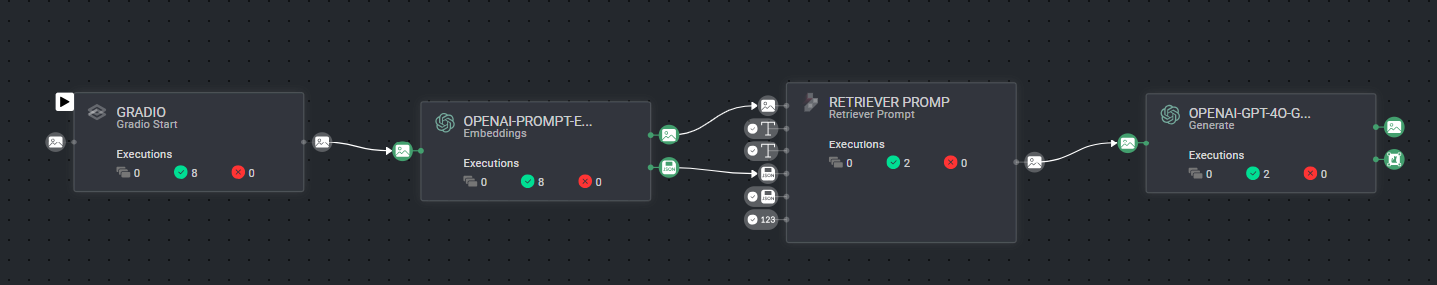
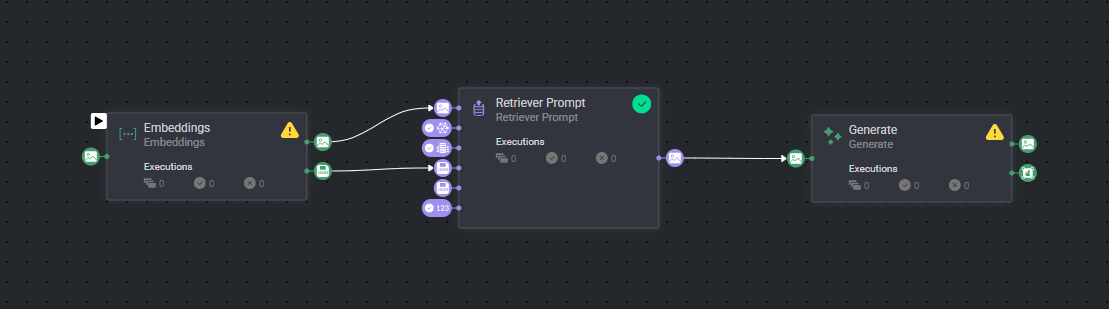
modified readme

diff --git a/rag/README.md b/rag/README.md
@@ -1,6 +1,6 @@
 # *RAG Pipeline* Template
 
-<img src="assets/template.png" alt="Image of the pipeline">
+<img src="assets/rag_template.png" alt="Image of the pipeline">
 
 ### Introduction:
 
@@ -8,7 +8,6 @@ This app provides a customizable **Retrieval-Augmented Generation (RAG)** pipeli
 query processing and response generation.
 
 ## Key Features:
-- **Gradio App**: For seamless user interaction.
 - **Embedder**: Embed user queries.
 - **Retriever**: Supports retrieving relevant documents.
 - **Generative Model**: Generates detailed, context-based responses.
@@ -22,23 +21,15 @@ Source datasets must be pre-embedded during the preprocessing stage for optimal 
 
 ## Components
 
-### 1. Gradio App
+### 1. AI Playground
 
-The Gradio interface serves as the user-facing part of the pipeline. It allows users to communicate by inputting
-free-text questions, to which the model will provide detailed responses. The app is designed for ease of use and
-interaction.
+Use Dataloop's **AI Playground** to communicate with the pipeline:
 
-#### To reach the gradio:
+<img src="assets/dropdown.png" alt="Ai playground">
 
-- Open the RAG Pipeline and click on `Start`.
-- Select the `Gradio Start` node, then in the left panel, click `Open Gradio App`.
+Choose the pipeline you want to use from the dropdown menu, and start chatting with the model inside the pipeline:
 
-<img src="assets/open_gradio_pipeline.png" alt="set_up_parameters.png">
-
-- A new window will appear. In the `Textbox`, enter your question. You will receive the answer in the same interface.
-
-
-  <img src="assets/gradio__app.png" alt="set_up_parameters.png">
+<img src="assets/app.png" alt="pipeline_dropdown">
 
 ### 2. Embedder
 
@@ -53,9 +44,10 @@ Choose an Embedder form Marketplace and assign the model in the embeddings node.
 The retriever is responsible for finding the most relevant items from a predefined dataset. It takes the following
 inputs:
 
-- **Embeddings**: Generated from the OpenAI model based on the user question.
+- **Prompt**: The prompt item of the conversion.
+- **Embeddings**: Generated from the model based on the user question.
 - **Dataset ID**: The dataset from which the retriever will look for information.
-- **Feature Set ID**: The specific feature set within the dataset.
+- **Embedder Retriver**: The embedder used to embed the source dataset.
 - **Query Filter**: Optional filtering DQL to refine the search results.
 - **K Nearest Items**: Defines how many of the closest items to return based on the similarity of embeddings.
 
@@ -65,9 +57,13 @@ inputs:
 
 <img src="assets/set_up_parameters.png" alt="set_up_parameters.png">
 
-2. Insert the values of the `dataset_id`, `featureset_id`, `k nearest items` and save changes.
+2. Insert the values of the `dataset_id`, `embedder_retriver`, `k nearest items`, `genModel`, `embedder` and save changes.
 
 <img src="assets/pipeline_variables.png" alt="pipeline_variables.png">
+
+Further parameters:
+- **GenModel**: The generative model to use to generate the response.
+- **Embedder**: The embedder to use to embed the user query.
 
 to get your `feature_set_id` use the SDK:
 
